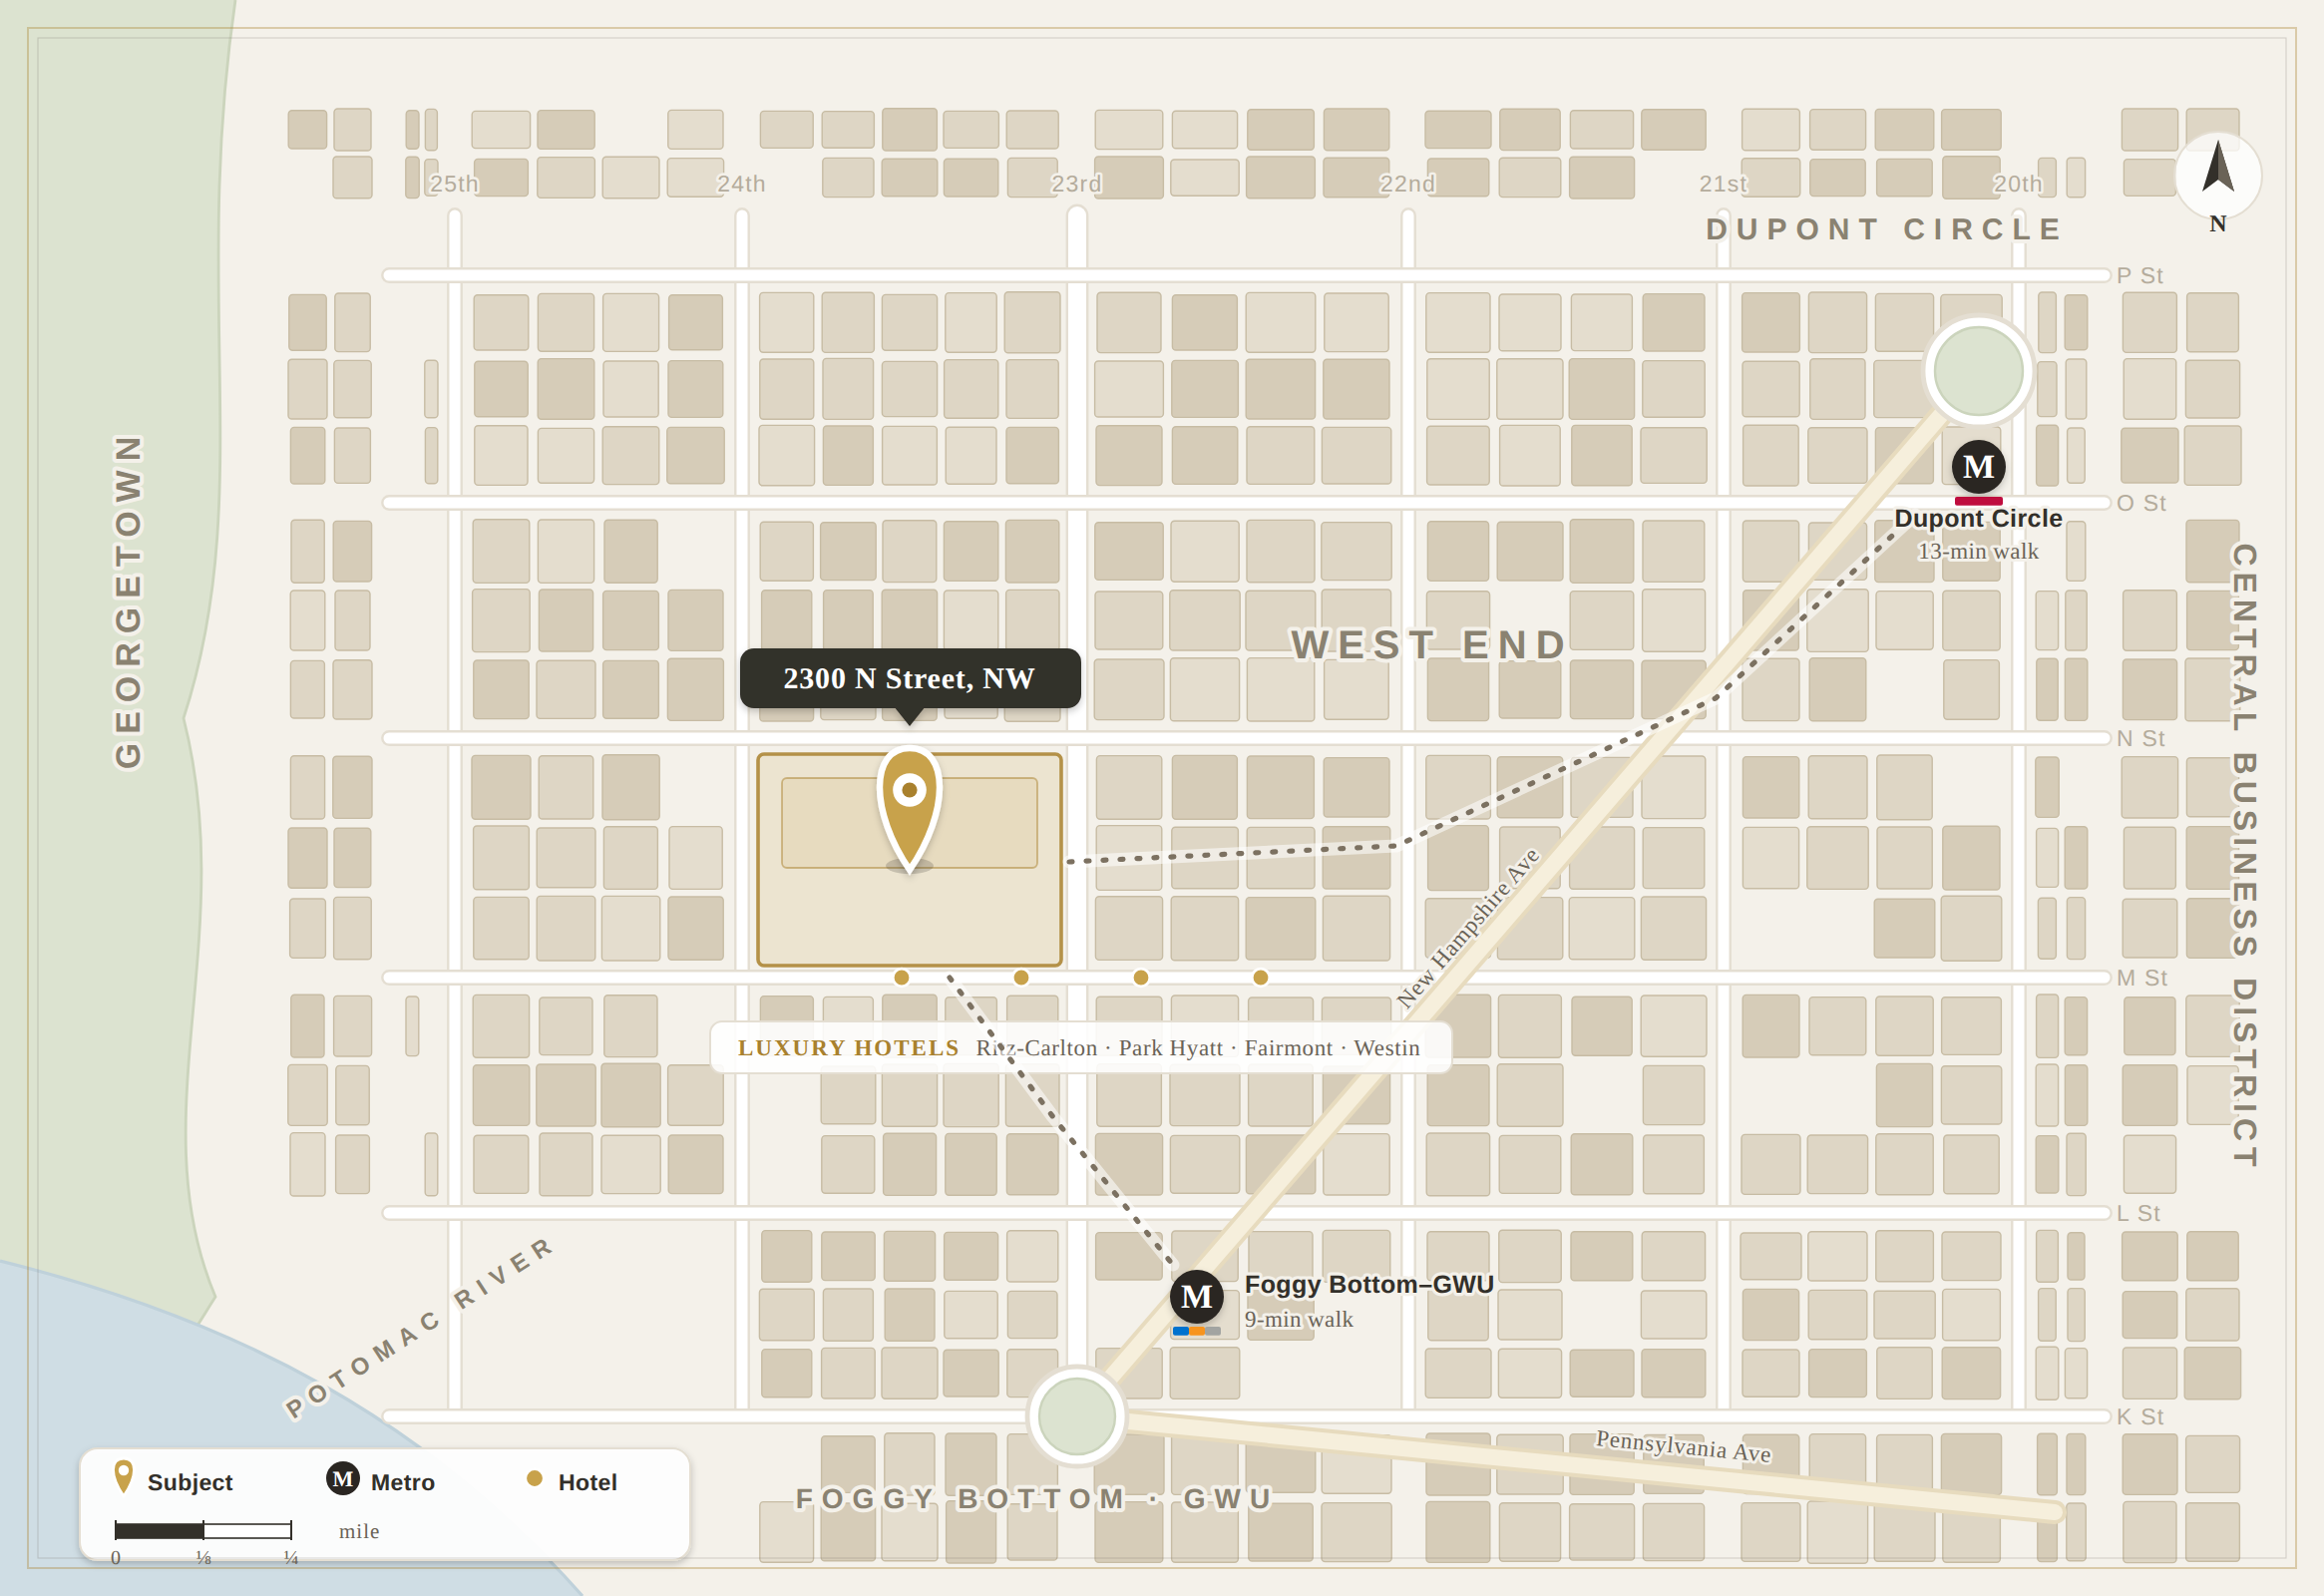
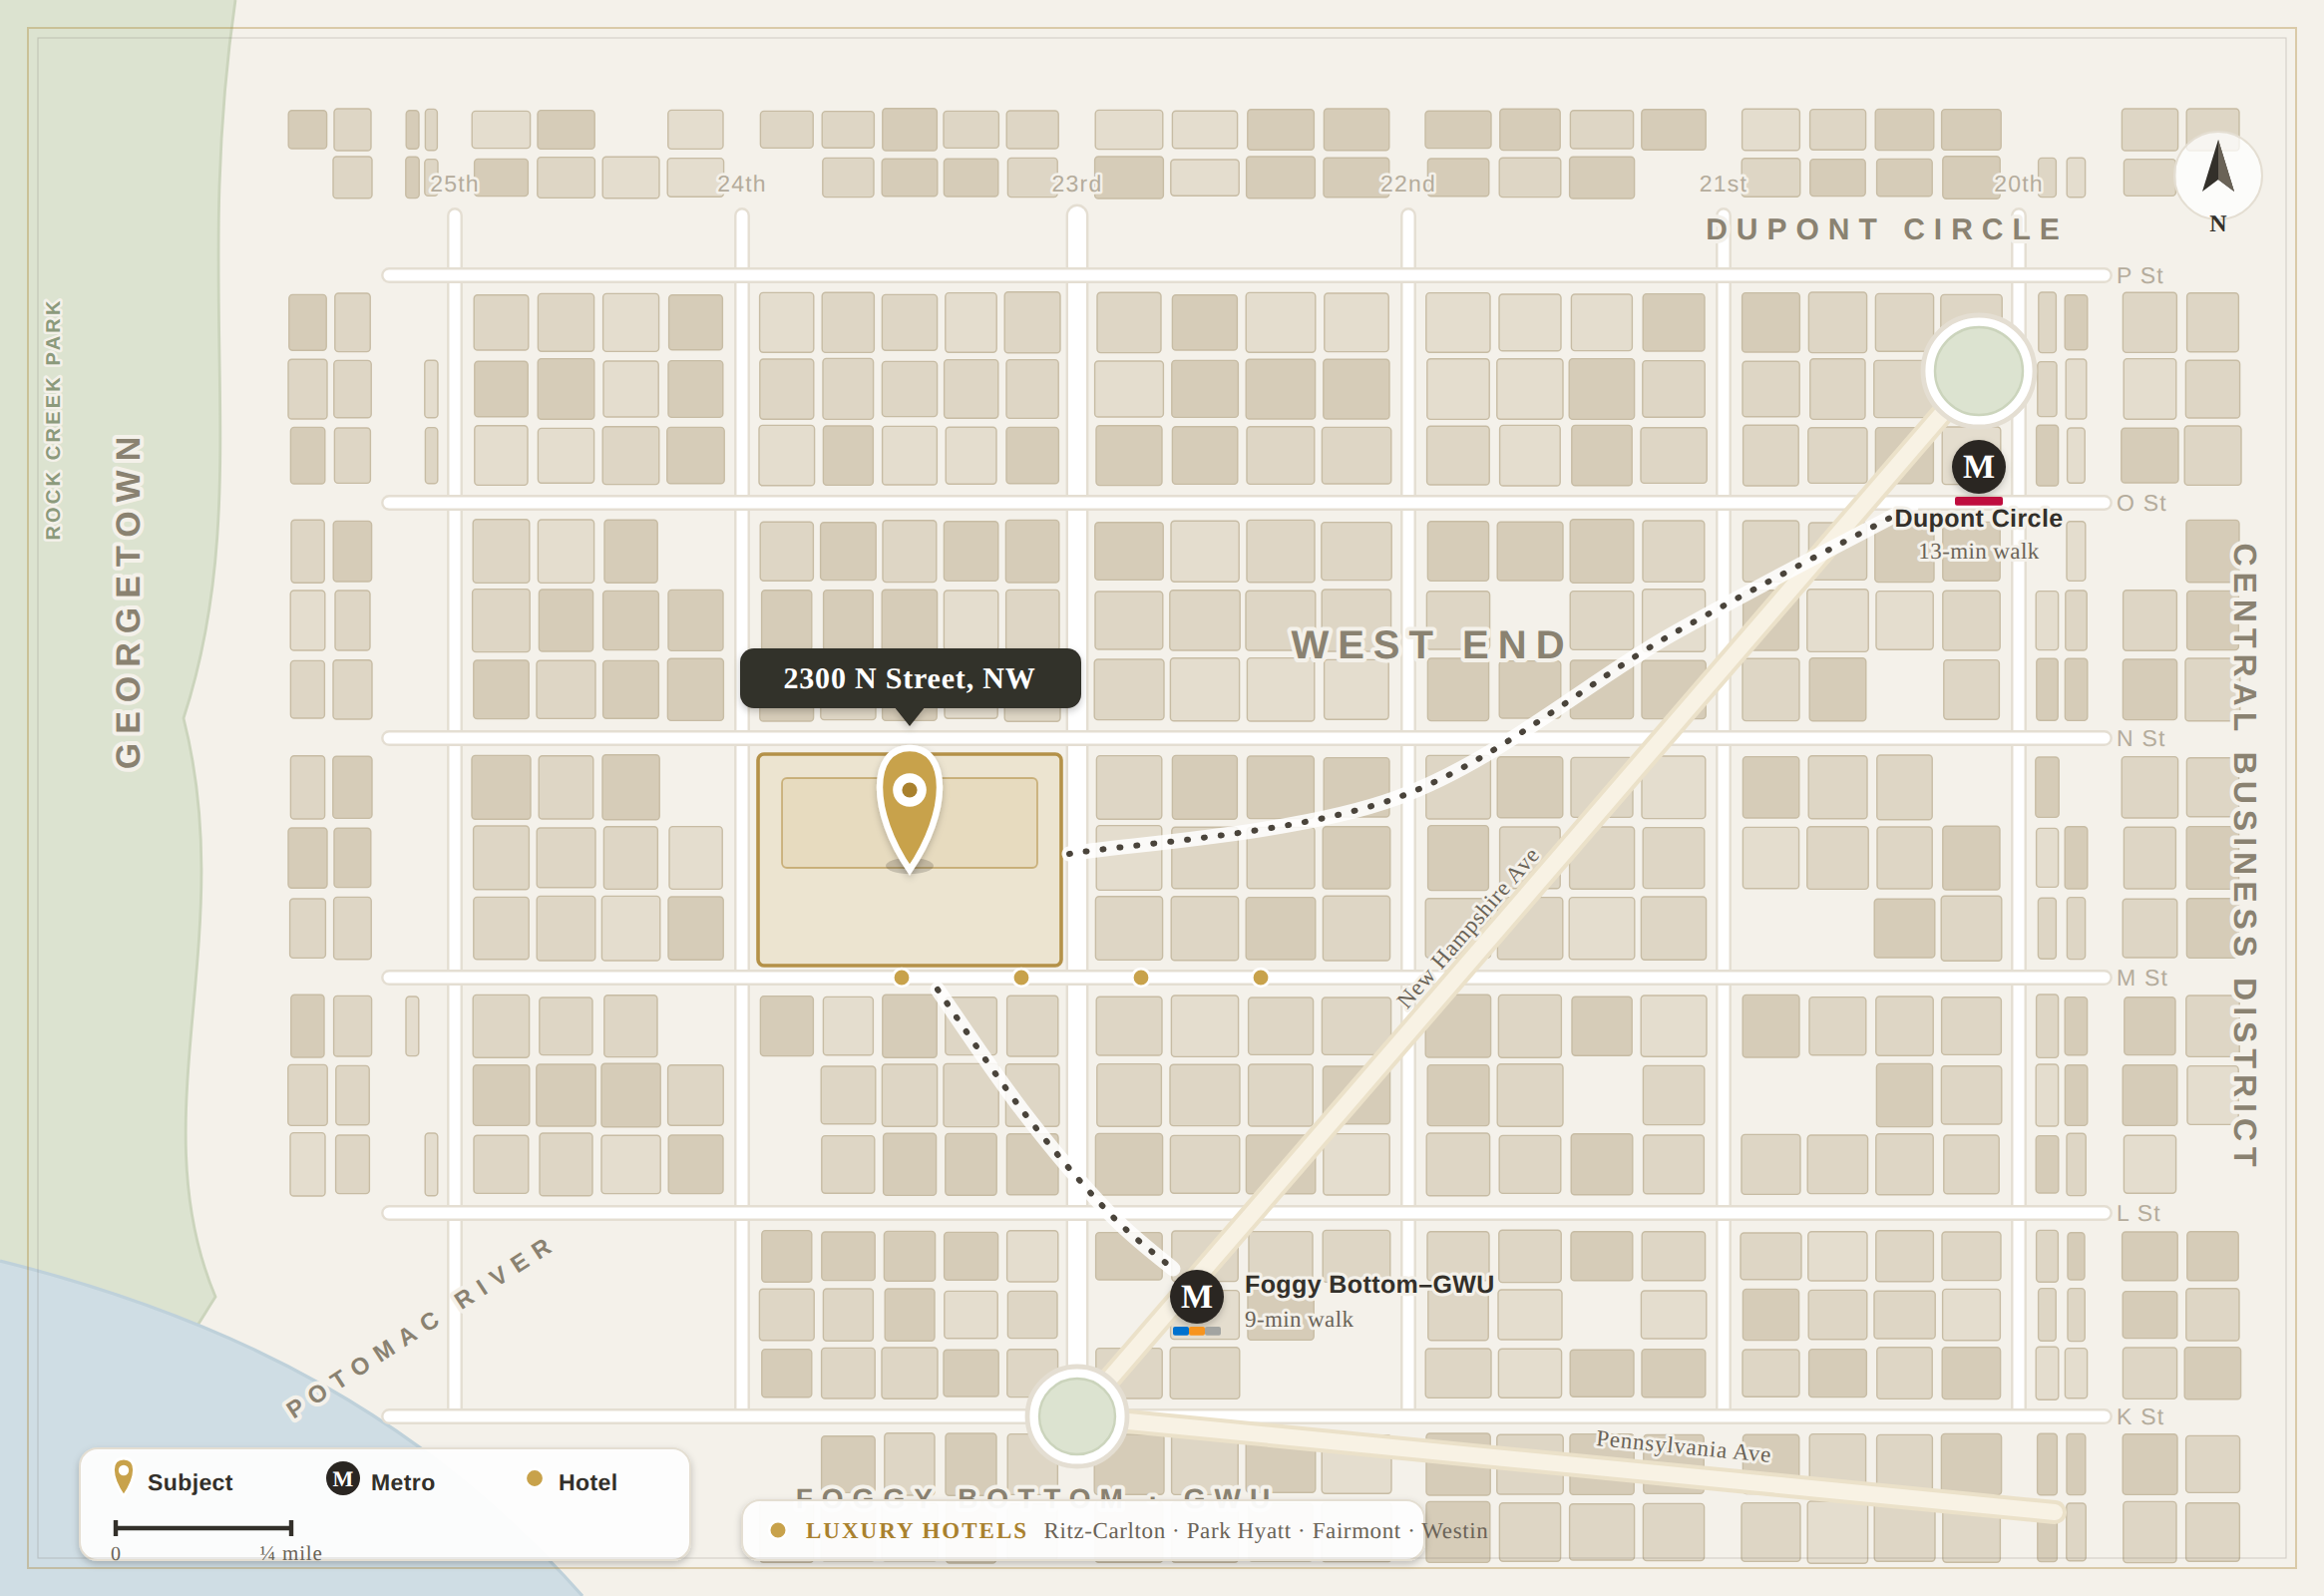
Interim map cleanup (scale bar, hotel strip, park label)
Checkpoint from the QA-fix pass. Superseded shortly by the appeal-focused
redesign (removes walk-route lines). Deck not rebuilt yet; will regenerate once
the new map lands.

Claude-Session: https://claude.ai/code/session_01618gwRtNT4bFmajXdLmDkH

diff --git a/equity-deck/make_map.py b/equity-deck/make_map.py
@@ -21,8 +21,8 @@ WATER   = "#CFDDE4"   # soft dusty blue
 WATERED = "#BFD1DA"
 ST_FILL = "#FFFFFF"   # street fill (hairline white)
 ST_CASE = "#E4DED2"   # street casing
-AVE_FILL= "#F6EFDC"   # warm avenue
-AVE_CASE= "#E7DBBE"
+AVE_FILL= "#F8F2E4"   # warm avenue (lightened so the dashed walk path reads over it)
+AVE_CASE= "#EBE1C9"
 GOLD    = "#C8A24B"   # refined muted gold
 GOLD_D  = "#A9812E"   # deep gold line
 GOLD_HI = "#E4C877"
@@ -182,6 +182,11 @@ def hood(x, y, t, size=17, rot=0, anchor="middle"):
                family="'Helvetica Neue', Arial, sans-serif")
 
 s.append(hood(70, 300, "GEORGETOWN", 17, rot=-90))
+# Rock Creek Park: small muted label inside the green wedge (upper-left), rotated
+# vertically to fit the narrow band, in a sage-grey so it reads as parkland.
+s.append(txt(30, 210, "ROCK  CREEK  PARK", size=10, fill="#8C9A7C", weight="600",
+             ls="1.6", anchor="middle", rot=-90, hw=2.6,
+             family="'Helvetica Neue', Arial, sans-serif"))
 s.append(hood(214, 668, "POTOMAC  RIVER", 12, rot=-33, anchor="middle"))
 s.append(hood(946, 120, "DUPONT  CIRCLE", 15))
 # CBD east-edge label: bump size/weight to match GEORGETOWN and pull inboard off the
@@ -216,37 +221,61 @@ s.append(txt(pax, pay - 11, "Pennsylvania Ave", size=11.5, fill=INK_SOFT, weight
              ls="0.4", rot=ang_pa, family="'Georgia', serif", hw=2.8))
 
 # ============================ HOTELS (M St, one block south) =====================
+# Gold dots stay on M St (their true location); the caption is DOCKED along the
+# bottom edge (right of the legend card) in clear space so it never covers a dot
+# or the map fabric.
 hx = [452, 512, 572, 632]
 hnames = ["Ritz-Carlton", "Park Hyatt", "Fairmont", "Westin"]
 for x in hx:
     s.append(f'<circle cx="{x}" cy="490" r="4.4" fill="{GOLD}" stroke="#FFFFFF" stroke-width="1.4"/>')
-# refined caption plate under M St, centered on the four dots
-cap_cx = sum(hx) / len(hx)
-plate_w = 372
-s.append(f'<rect x="{cap_cx-plate_w/2:.0f}" y="512" width="{plate_w}" height="26" rx="6" '
-         f'fill="#FFFFFF" fill-opacity="0.88" stroke="{ST_CASE}" stroke-width="1"/>')
-s.append(f'<text x="{cap_cx-plate_w/2+14:.0f}" y="529" font-size="11.5" '
+# Docked caption plate: same height/y as the legend card, sitting in the clear
+# band below K St, to the right of the legend.
+HCAP_X = 372
+HCAP_Y = 752
+HCAP_W = 342
+HCAP_H = 30
+s.append(f'<g filter="url(#soft)"><rect x="{HCAP_X}" y="{HCAP_Y}" width="{HCAP_W}" height="{HCAP_H}" rx="9" '
+         f'fill="#FFFFFF" fill-opacity="0.94" stroke="{ST_CASE}" stroke-width="1"/></g>')
+# small gold dot glyph at the left of the plate to tie it to the map dots
+s.append(f'<circle cx="{HCAP_X+18}" cy="{HCAP_Y+HCAP_H/2:.0f}" r="4.4" fill="{GOLD}" '
+         f'stroke="#FFFFFF" stroke-width="1.3"/>')
+s.append(f'<text x="{HCAP_X+32}" y="{HCAP_Y+HCAP_H/2+4:.0f}" font-size="11.5" '
          f'font-family="\'Georgia\', serif" letter-spacing="0.3">'
          f'<tspan fill="{GOLD_D}" font-weight="700" letter-spacing="1">LUXURY HOTELS&#160;&#160;</tspan>'
          f'<tspan fill="{INK_SOFT}">Ritz-Carlton · Park Hyatt · Fairmont · Westin</tspan></text>')
 
 # ============================ WALK ROUTES =======================================
-# Legible dot-dash walk lines from the subject block to each Metro so the
-# walkability story reads at slide scale (previously faint cream avenue ribbons).
-WALK   = "#7C7161"    # warm dark taupe, reads clearly on the ivory basemap
-def walk_route(pts):
-    d = "M" + " L".join(f"{x:.0f},{y:.0f}" for x, y in pts)
-    # soft light casing under the dash so it separates from the grid, then dashes
-    return (f'<path d="{d}" fill="none" stroke="#FFFFFF" stroke-width="6.5" '
-            f'stroke-opacity="0.55" stroke-linecap="round" stroke-linejoin="round"/>'
-            f'<path d="{d}" fill="none" stroke="{WALK}" stroke-width="2.6" '
+# Legible dashed walk lines from the subject block to each Metro. Styled a deep
+# charcoal-ink dash on a bright white casing so the PATH is unmistakably distinct
+# from the cream New Hampshire Ave ROAD it runs beside (see NH_SHIFT offset below).
+WALK   = "#4A443B"    # deep charcoal-taupe, clearly reads as a route (not a road)
+def walk_route(pts, smooth=False):
+    if smooth and len(pts) >= 3:
+        # Catmull-Rom -> cubic Bézier for a gently flowing (non-kinked) path
+        d = f"M{pts[0][0]:.0f},{pts[0][1]:.0f}"
+        P = [pts[0]] + list(pts) + [pts[-1]]
+        for i in range(1, len(P) - 2):
+            p0, p1, p2, p3 = P[i-1], P[i], P[i+1], P[i+2]
+            c1x = p1[0] + (p2[0] - p0[0]) / 6.0
+            c1y = p1[1] + (p2[1] - p0[1]) / 6.0
+            c2x = p2[0] - (p3[0] - p1[0]) / 6.0
+            c2y = p2[1] - (p3[1] - p1[1]) / 6.0
+            d += f" C{c1x:.1f},{c1y:.1f} {c2x:.1f},{c2y:.1f} {p2[0]:.0f},{p2[1]:.0f}"
+    else:
+        d = "M" + " L".join(f"{x:.0f},{y:.0f}" for x, y in pts)
+    # bright white casing under the dash so it separates cleanly from the grid AND
+    # from the avenue, then a bold charcoal dash on top
+    return (f'<path d="{d}" fill="none" stroke="#FFFFFF" stroke-width="7.5" '
+            f'stroke-opacity="0.85" stroke-linecap="round" stroke-linejoin="round"/>'
+            f'<path d="{d}" fill="none" stroke="{WALK}" stroke-width="3.0" '
             f'stroke-linecap="round" stroke-linejoin="round" '
-            f'stroke-dasharray="1.5 7"/>')
-# to Foggy Bottom–GWU (south): down toward the roundel
-s.append(walk_route([(476, 490), (528, 560), (588, 634)]))
-# to Dupont Circle (NE): step east off the block, then climb diagonally to the
-# station (reads as a route, clear of the WEST END label and the grid lines).
-s.append(walk_route([(536, 432), (700, 424), (860, 350), (960, 258)]))
+            f'stroke-dasharray="0.5 8"/>')
+# to Foggy Bottom–GWU (south): smooth flowing curve down toward the roundel
+s.append(walk_route([(470, 496), (512, 556), (556, 608), (588, 636)], smooth=True))
+# to Dupont Circle (NE): step east off the block, then climb toward the station.
+# Offset the mid segment NORTH of New Hampshire Ave so the dashed PATH sits clearly
+# beside (not on top of) the cream avenue diagonal.
+s.append(walk_route([(536, 428), (700, 400), (838, 318), (958, 254)], smooth=True))
 
 # ============================ METRO ROUNDELS ====================================
 def metro(cx, cy, bars):
@@ -340,19 +369,21 @@ s.append(f'<circle cx="{LEG_X+228}" cy="{lgy-5}" r="4.6" fill="{GOLD}" stroke="#
 s.append(txt(LEG_X+240, lgy+1, "Hotel", size=11.5, fill=INK, weight="600", ls="0.2",
              anchor="start", halo=False, family="'Helvetica Neue', Arial, sans-serif"))
 
-# Row 2: graduated scale bar (0 – 1/8 – 1/4 mile)
-sby = LEG_Y + 42
+# Row 2: clean scale bar — single hairline bar with end ticks, centered "¼ mile"
+sby = LEG_Y + 40
 sbx = LEG_X + 18
-seg = 44                                  # px per 1/8-mile segment
-s.append(f'<rect x="{sbx}" y="{sby-4}" width="{seg}" height="7" fill="{INK}" stroke="{INK}" stroke-width="0.8"/>'
-         f'<rect x="{sbx+seg}" y="{sby-4}" width="{seg}" height="7" fill="#FFFFFF" stroke="{INK}" stroke-width="0.8"/>')
-for i, lab in enumerate(["0", "⅛", "¼"]):
-    tx = sbx + i * seg
-    s.append(f'<line x1="{tx}" y1="{sby-6}" x2="{tx}" y2="{sby+4}" stroke="{INK}" stroke-width="1"/>')
-    s.append(txt(tx, sby+16, lab, size=10, fill=INK_SOFT, weight="500", ls="0",
-                 anchor="middle", halo=False, family="'Georgia', serif"))
-s.append(txt(sbx + 2*seg + 24, sby+3, "mile", size=10.5, fill=INK_SOFT, weight="400", ls="0.5",
-             anchor="start", halo=False, family="'Georgia', serif"))
+sbw = 88                                   # bar length = ¼ mile
+# main bar
+s.append(f'<line x1="{sbx}" y1="{sby}" x2="{sbx+sbw}" y2="{sby}" stroke="{INK}" '
+         f'stroke-width="2.2" stroke-linecap="butt"/>')
+# end ticks
+s.append(f'<line x1="{sbx}" y1="{sby-4}" x2="{sbx}" y2="{sby+4}" stroke="{INK}" stroke-width="2.2"/>'
+         f'<line x1="{sbx+sbw}" y1="{sby-4}" x2="{sbx+sbw}" y2="{sby+4}" stroke="{INK}" stroke-width="2.2"/>')
+# "0" at left end, "¼ mile" at right end
+s.append(txt(sbx, sby+16, "0", size=10, fill=INK_SOFT, weight="500", ls="0",
+             anchor="middle", halo=False, family="'Georgia', serif"))
+s.append(txt(sbx+sbw, sby+16, "¼ mile", size=10.5, fill=INK_SOFT, weight="400", ls="0.4",
+             anchor="middle", halo=False, family="'Georgia', serif"))
 
 # ---- Thin editorial inner frame -------------------------------------------------
 s.append(f'<rect x="14" y="14" width="{VBW-28}" height="{VBH-28}" fill="none" '